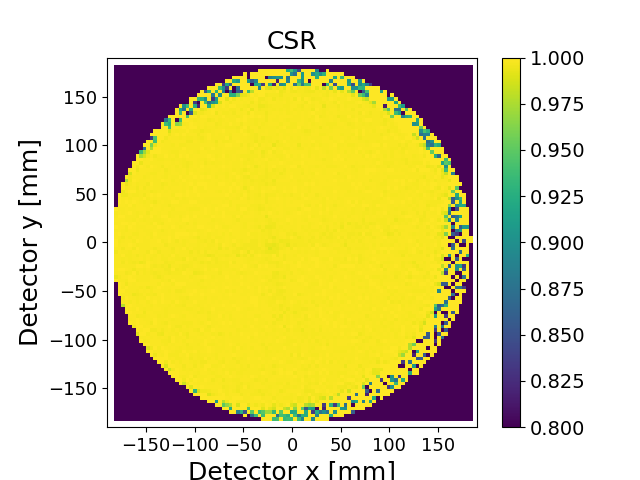
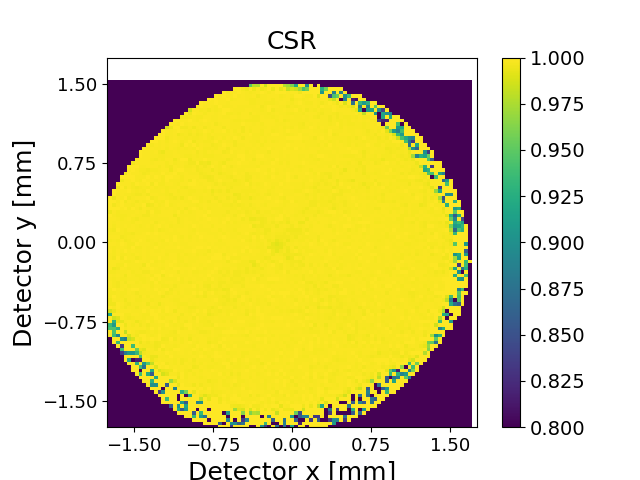
nieuwe images

diff --git a/Practicum15_(Project_QSP)/Heatmaps/Heatmap.py b/Practicum15_(Project_QSP)/Heatmaps/Heatmap.py
@@ -71,8 +71,8 @@ def process_heatmap(params, Cuda=False):
     Ydtcar = np.array(Ydtc, dtype=float)
     PulseNbar = np.array(PulseNb, dtype=float)
     ElementMass = np.array(ElementMass, dtype=float)
-    Xdtcar = 10 * Xdtcar
-    Ydtcar = 10 * Ydtcar
+    Xdtcar = 1 * Xdtcar # INFO: daar stond maal 10
+    Ydtcar = 1 * Ydtcar
 
     dataParseTijd = time.perf_counter() - tempTime
     print(f"- Parsing the data: {dataParseTijd:.3f}s")
@@ -145,28 +145,27 @@ def process_heatmap(params, Cuda=False):
     NSi3 = np.zeros([NROFBINS, NROFBINS], dtype=np.float32)
 
     rownr = np.digitize(Ydtcar, np.linspace(np.min(Ydtcar), np.max(Ydtcar), NROFBINS))
-    colmnr = np.digitize(Xdtcar, np.linspace(np.min(Xdtcar), np.max(Xdtcar), NROFBINS))
-
-    # GPU kernel for matrix updates
-    threads_per_block = (16, 16)
-    blocks_per_grid_x = (NROFBINS + threads_per_block[0] - 1) // threads_per_block[0]
-    blocks_per_grid_y = (NROFBINS + threads_per_block[1] - 1) // threads_per_block[1]
-    blocks_per_grid = (blocks_per_grid_x, blocks_per_grid_y)
-
-    NpMat_gpu = cuda.to_device(NpMat)
-    NrMat_gpu = cuda.to_device(NrMat)
-    NSi1_gpu = cuda.to_device(NSi1)
-    NSi2_gpu = cuda.to_device(NSi2)
-    NSi3_gpu = cuda.to_device(NSi3)
-
-    rownr_gpu = cuda.to_device(rownr)
-    colmnr_gpu = cuda.to_device(colmnr)
-    Np_gpu = cuda.to_device(Np)
-    ElementMass_gpu = cuda.to_device(ElementMass)
+    colmnr = np.digitize(Xdtcar, np.linspace(np.min(Xdtcar), np.max(Xdtcar), NROFBINS))    
 
 
     if Cuda:
         # ---- GPU matrix update ----
+        # GPU kernel for matrix updates
+        threads_per_block = (16, 16)
+        blocks_per_grid_x = (NROFBINS + threads_per_block[0] - 1) // threads_per_block[0]
+        blocks_per_grid_y = (NROFBINS + threads_per_block[1] - 1) // threads_per_block[1]
+        blocks_per_grid = (blocks_per_grid_x, blocks_per_grid_y)
+
+        NpMat_gpu = cuda.to_device(NpMat)
+        NrMat_gpu = cuda.to_device(NrMat)
+        NSi1_gpu = cuda.to_device(NSi1)
+        NSi2_gpu = cuda.to_device(NSi2)
+        NSi3_gpu = cuda.to_device(NSi3)
+
+        rownr_gpu = cuda.to_device(rownr)
+        colmnr_gpu = cuda.to_device(colmnr)
+        Np_gpu = cuda.to_device(Np)
+        ElementMass_gpu = cuda.to_device(ElementMass)
         @cuda.jit
         def update_matrices(Np, ElementMass, rownr, colmnr, NROFBINS, SI1RNGMIN, SI1RNGMAX, SI2RNGMIN, SI2RNGMAX, SI3RNGMIN, SI3RNGMAX, 
                             NpMat, NrMat, NSi1, NSi2, NSi3):
@@ -227,8 +226,8 @@ def process_heatmap(params, Cuda=False):
     tempTime = time.perf_counter()
 
     '''Plot results'''
-    LIMIT = 190
-    TICKS = [-150, -100, -50, 0, 50, 100, 150]
+    LIMIT = 1.75
+    TICKS = [-1.5, -0.75, 0, 0.75, 1.5]
     # Save the first plot (DEH classic)
     f1 = plt.figure(1)
     plt.hist2d(Xdtcar, Ydtcar, bins=[NROFBINS, NROFBINS], range=np.array([(-LIMIT, LIMIT), (-LIMIT, LIMIT)]))

diff --git a/Practicum15_(Project_QSP)/Heatmaps/Leoben/Leoben.py b/Practicum15_(Project_QSP)/Heatmaps/Leoben/Leoben.py
@@ -19,4 +19,4 @@ params = {
     "SETDETRATE": 0.002,
 }
 
-process_heatmap(params, Cuda=True)
+process_heatmap(params, Cuda=False)
